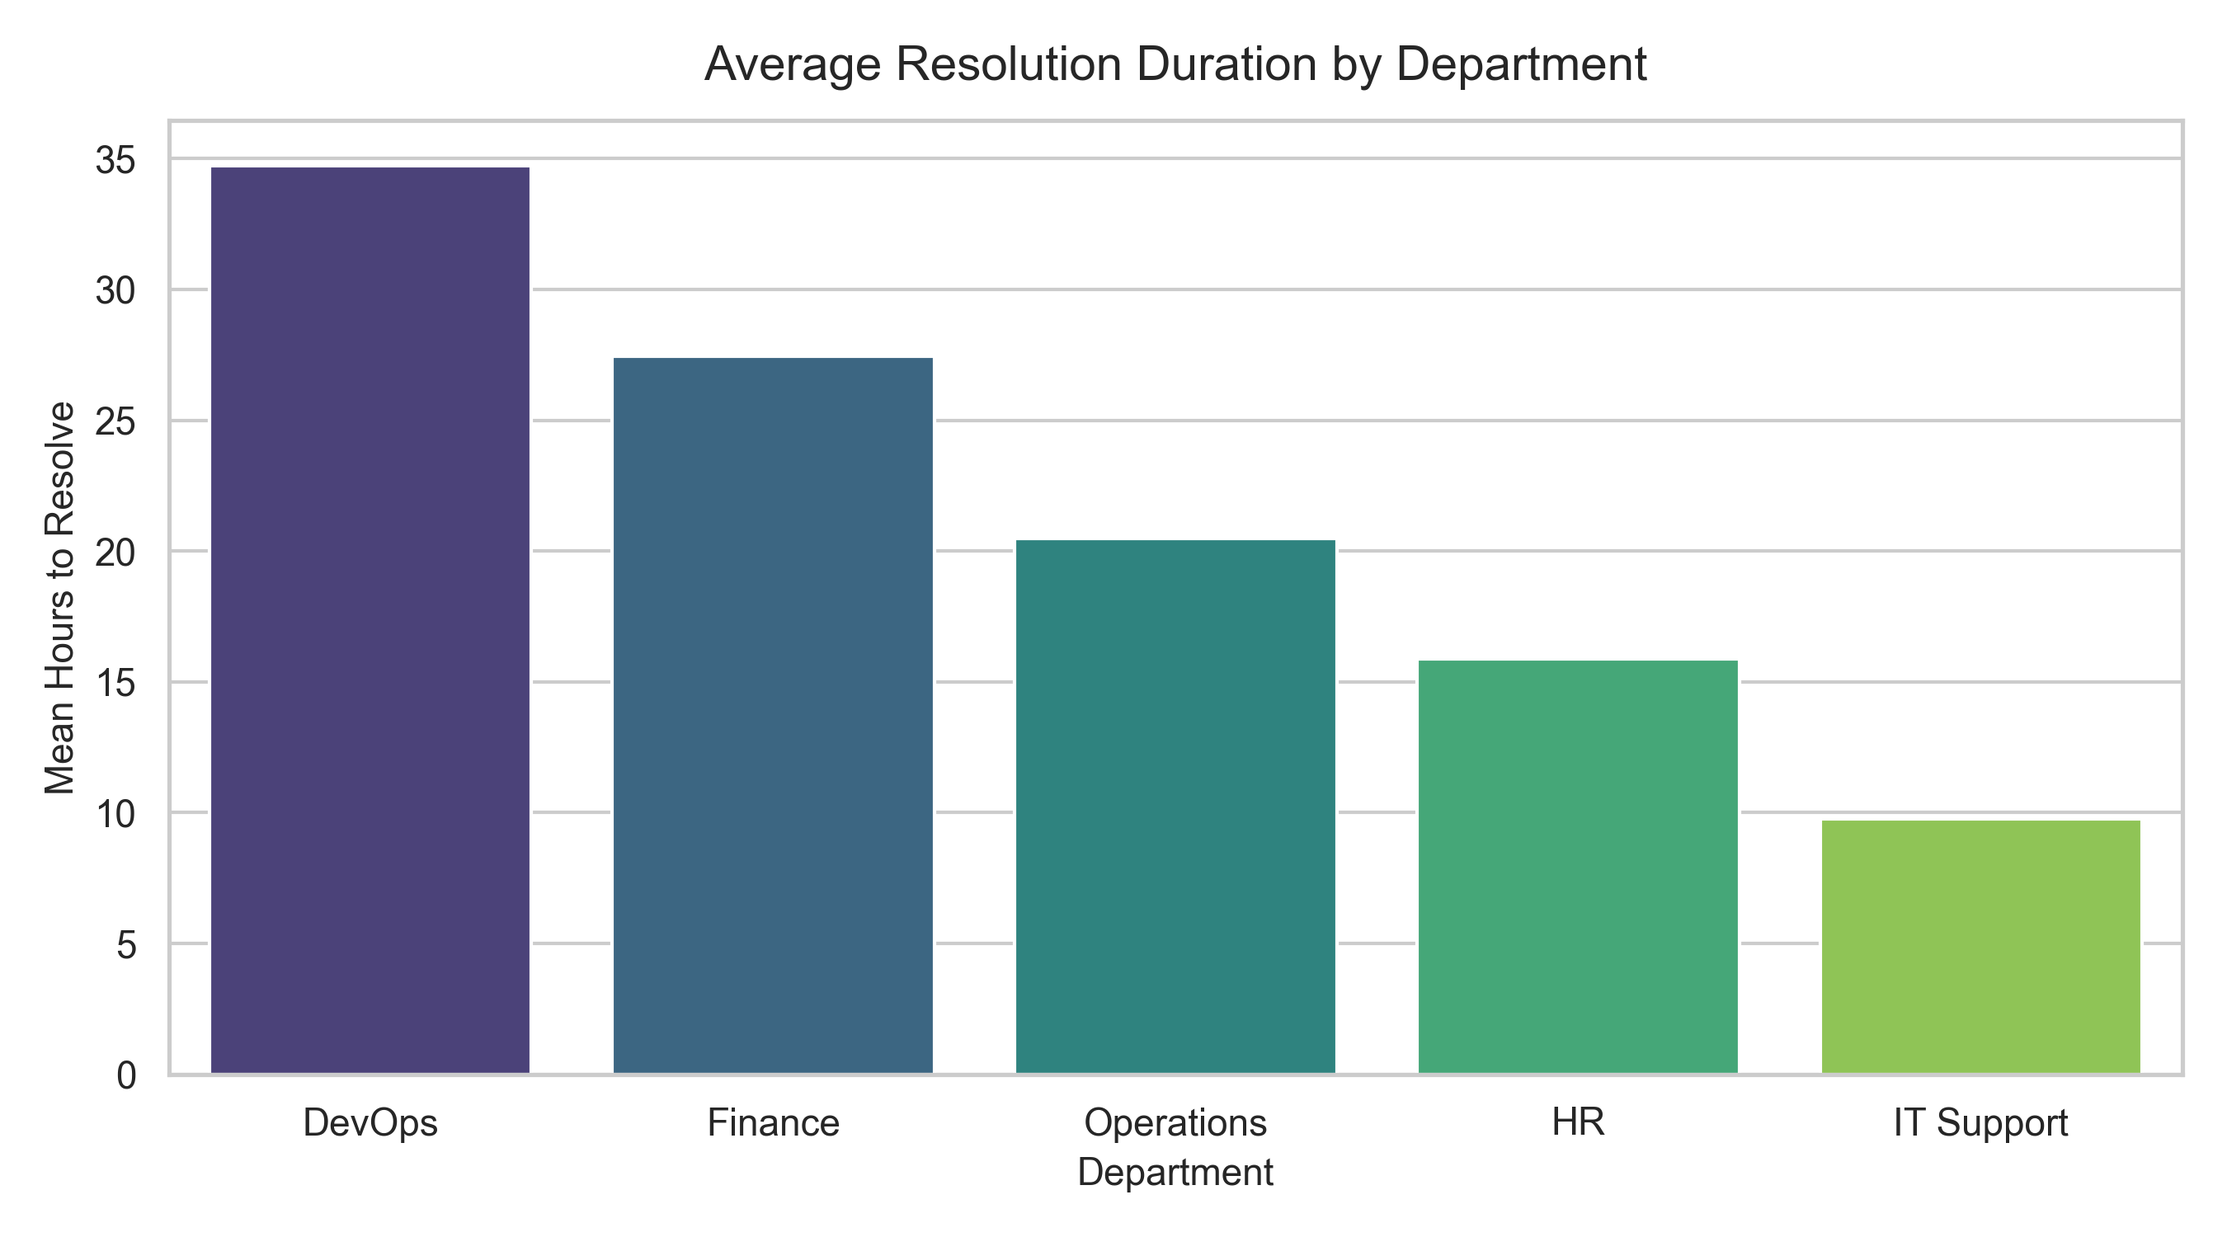
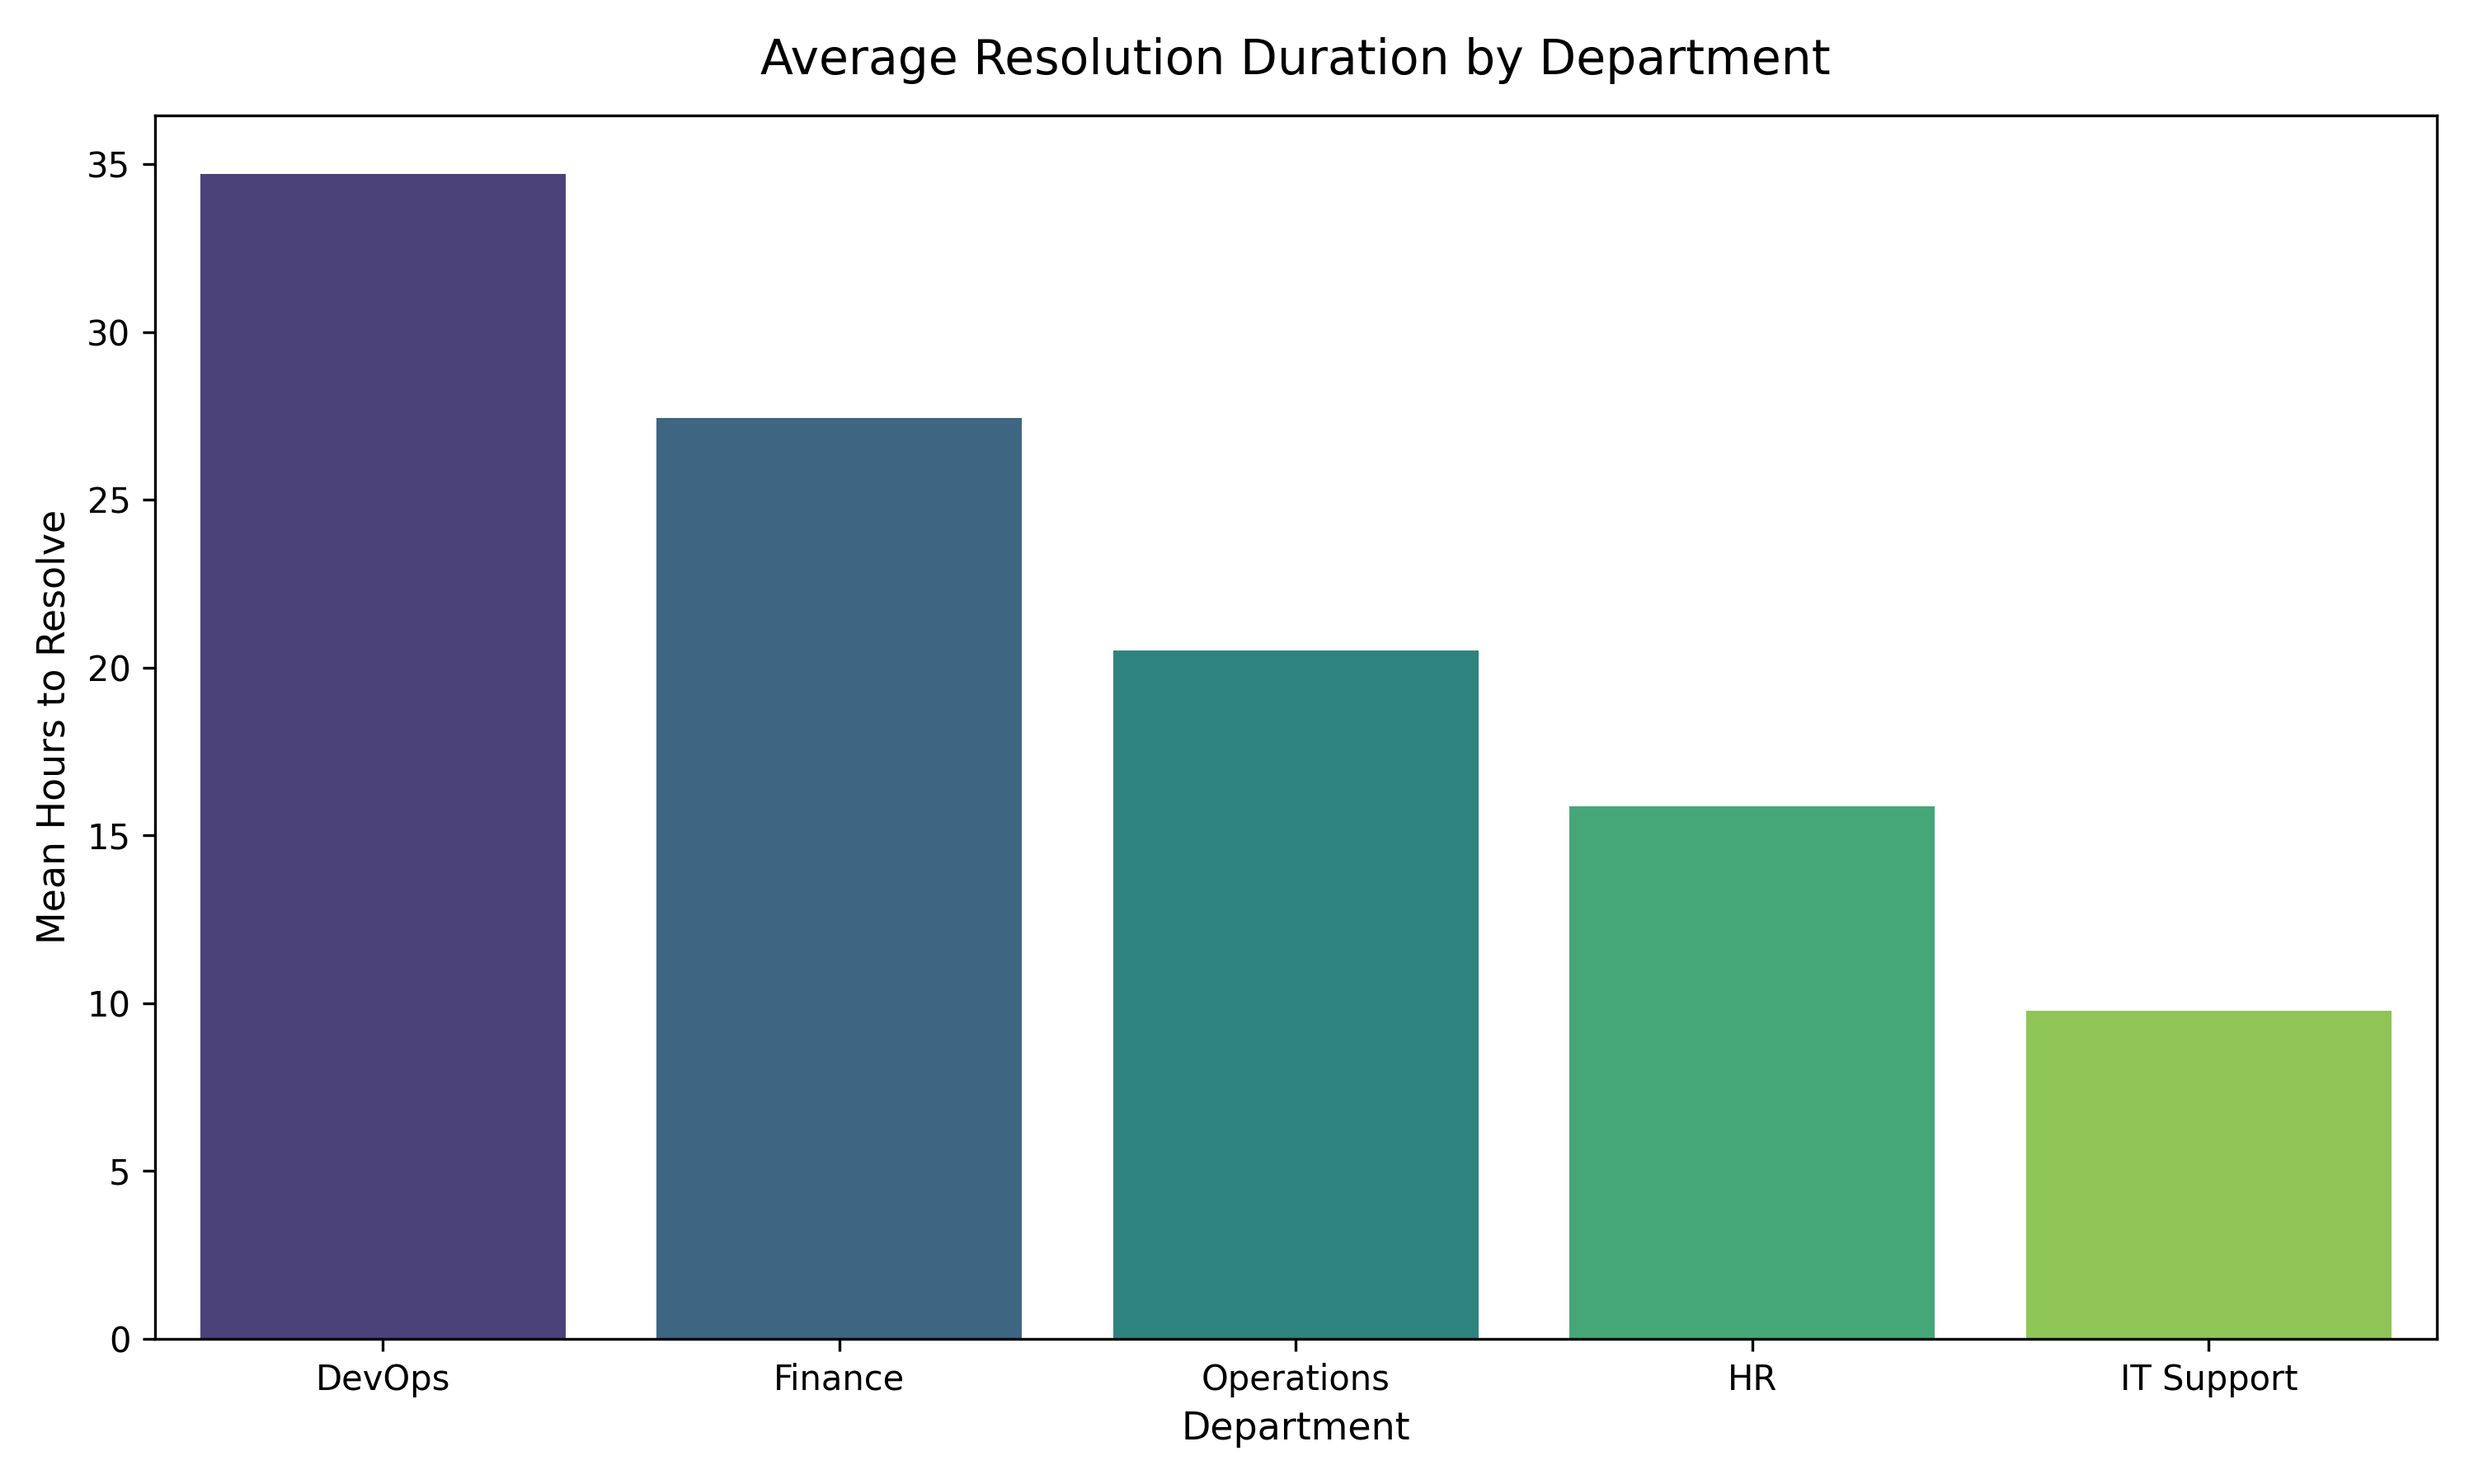
Fixed function structure in ticket_analysis and finalized print statements

diff --git a/src/ticket_analysis.py b/src/ticket_analysis.py
@@ -1,67 +1,26 @@
-import numpy as np
 import pandas as pd
-from data_cleaning import clean_ticket_data
-from data_loader import load_raw_tickets
-
+import numpy as np
 
 def process_ticket_metrics(df: pd.DataFrame) -> pd.DataFrame:
-    """Parses datetime strings, calculates resolution durations in hours,
-
-    and assigns performance SLA categories using numpy condition arrays.
-
-    Args:
-        df (pd.DataFrame): Cleaned ticket dataset.
-
-    Returns:
-        pd.DataFrame: DataFrame populated with resolution analysis fields.
-    """
+    """Calculates resolution time in hours and assigns performance buckets."""
     analyzed_df = df.copy()
 
     # 1. Parse string timestamps into native pandas datetime objects
     analyzed_df["Created_Date"] = pd.to_datetime(analyzed_df["Created_Date"])
     analyzed_df["Resolved_Date"] = pd.to_datetime(analyzed_df["Resolved_Date"])
 
-    # 2. Compute exact resolution latency in decimal hours
+    # 2. Computing exact resolution latency in decimal hours
     time_diff = analyzed_df["Resolved_Date"] - analyzed_df["Created_Date"]
-    analyzed_df["Resolution_Time_Hours"] = (
-        time_diff.dt.total_seconds() / 3600.0
-    ).round(2)
+    analyzed_df["Resolution_Time_Hours"] = (time_diff.dt.total_seconds() / 3600.0).round(2)
 
-    # 3. Classify response speed into performance buckets with np.select
+    # 3. Assigning the pwrformance Buckets
     conditions = [
-        analyzed_df["Resolution_Time_Hours"] < 4.0,
-        (analyzed_df["Resolution_Time_Hours"] >= 4.0)
-        & (analyzed_df["Resolution_Time_Hours"] <= 24.0),
-        analyzed_df["Resolution_Time_Hours"] > 24.0,
+        (analyzed_df["Resolution_Time_Hours"] < 4),
+        (analyzed_df["Resolution_Time_Hours"] >= 4) & (analyzed_df["Resolution_Time_Hours"] <= 24),
+        (analyzed_df["Resolution_Time_Hours"] > 24)
     ]
-    choices = ["Fast (<4h)", "Normal (4-24h)", "Delayed (>24h)"]
+    choices = ["<4h", "4-24h", ">24h"]
+    analyzed_df["Performance_Bucket"] = np.select(conditions, choices, default="Unknown")
 
-    analyzed_df["Performance_Bucket"] = np.select(
-        conditions, choices, default="Unknown"
-    )
-
-    print(
-        "[ANALYSIS COMPLETE] Calculated 'Resolution_Time_Hours' and assigned 'Performance_Bucket'."
-    )
+    print("Added Resolution_Time_Hours and Performance_Bucket.")
     return analyzed_df
-
-
-if __name__ == "__main__":
-    raw_path = "data/raw/it_support_tickets.csv"
-
-    print("Testing ticket_analysis.py standalone...")
-    raw_df = load_raw_tickets(raw_path)
-    cleaned_df = clean_ticket_data(raw_df)
-    analyzed_df = process_ticket_metrics(cleaned_df)
-
-    print("\nSample Analyzed Metrics:")
-    print(
-        analyzed_df[
-            [
-                "Ticket_ID",
-                "Department",
-                "Resolution_Time_Hours",
-                "Performance_Bucket",
-            ]
-        ].head(5)
-    )

diff --git a/generate_raw_data.py b/generate_raw_data.py
@@ -71,4 +71,4 @@ df.iloc[15] = df.iloc[14]
 raw_path = Path("data/raw/it_support_tickets.csv")
 raw_path.parent.mkdir(parents=True, exist_ok=True)
 df.to_csv(raw_path, index=False)
-print(f"[SUCCESS] Regenerated realistic raw ticket dataset at '{raw_path}'")
+print(f"Wrote synthetic ticket data to '{raw_path}'")

diff --git a/README.md b/README.md
@@ -10,6 +10,9 @@ Modular pipeline that cleans 10,000 IT support tickets and reports resolution ti
 - `ticket_analysis.py`: resolution hours per ticket, bucketed <4h / 4-24h / >24h
 - `visualization.py`: saves 3 charts to `reports/`
 
+![Average Resolution by Department](reports/avg_resolution_by_department.png)
+
+
 ## Run
 pip install -r requirements.txt
 python generate_raw_data.py
